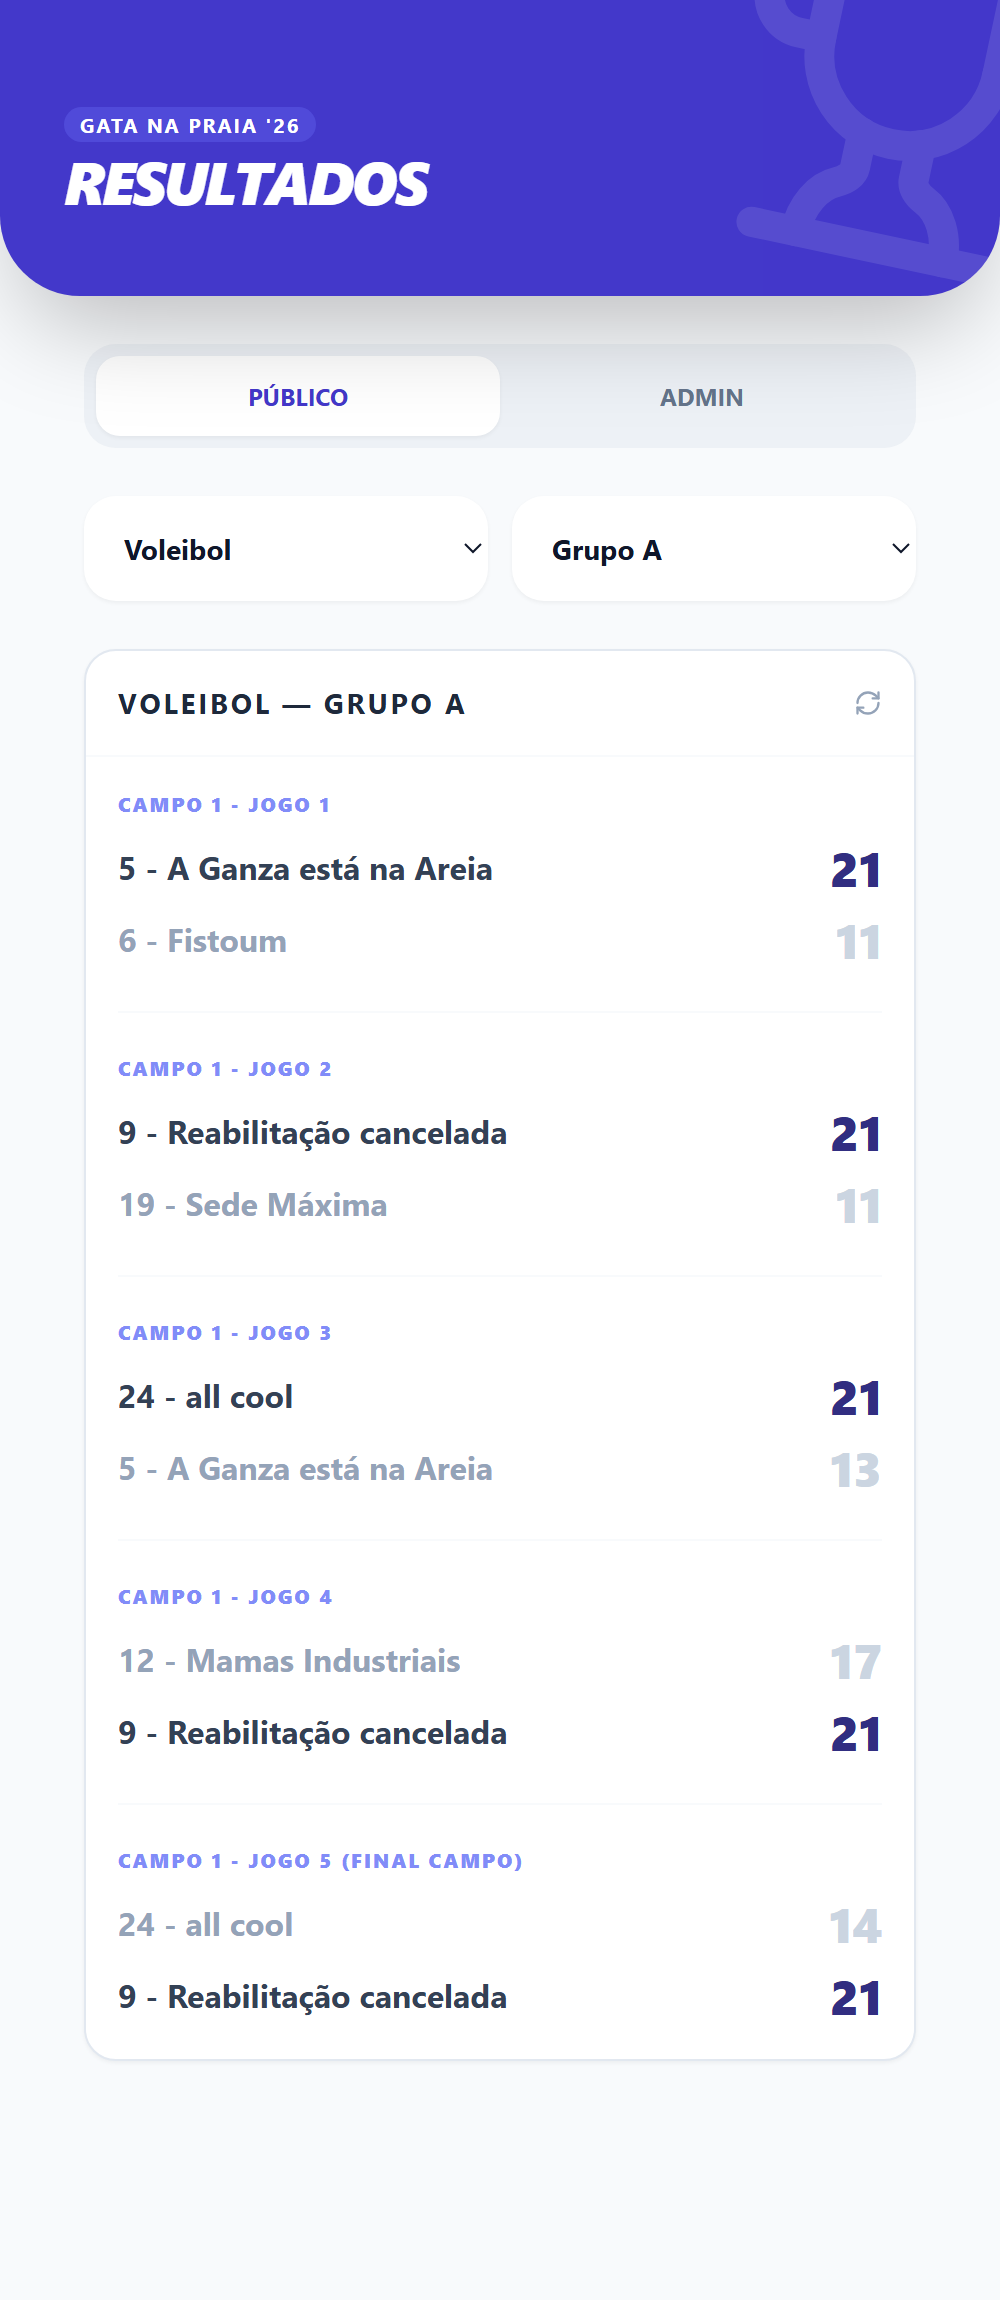
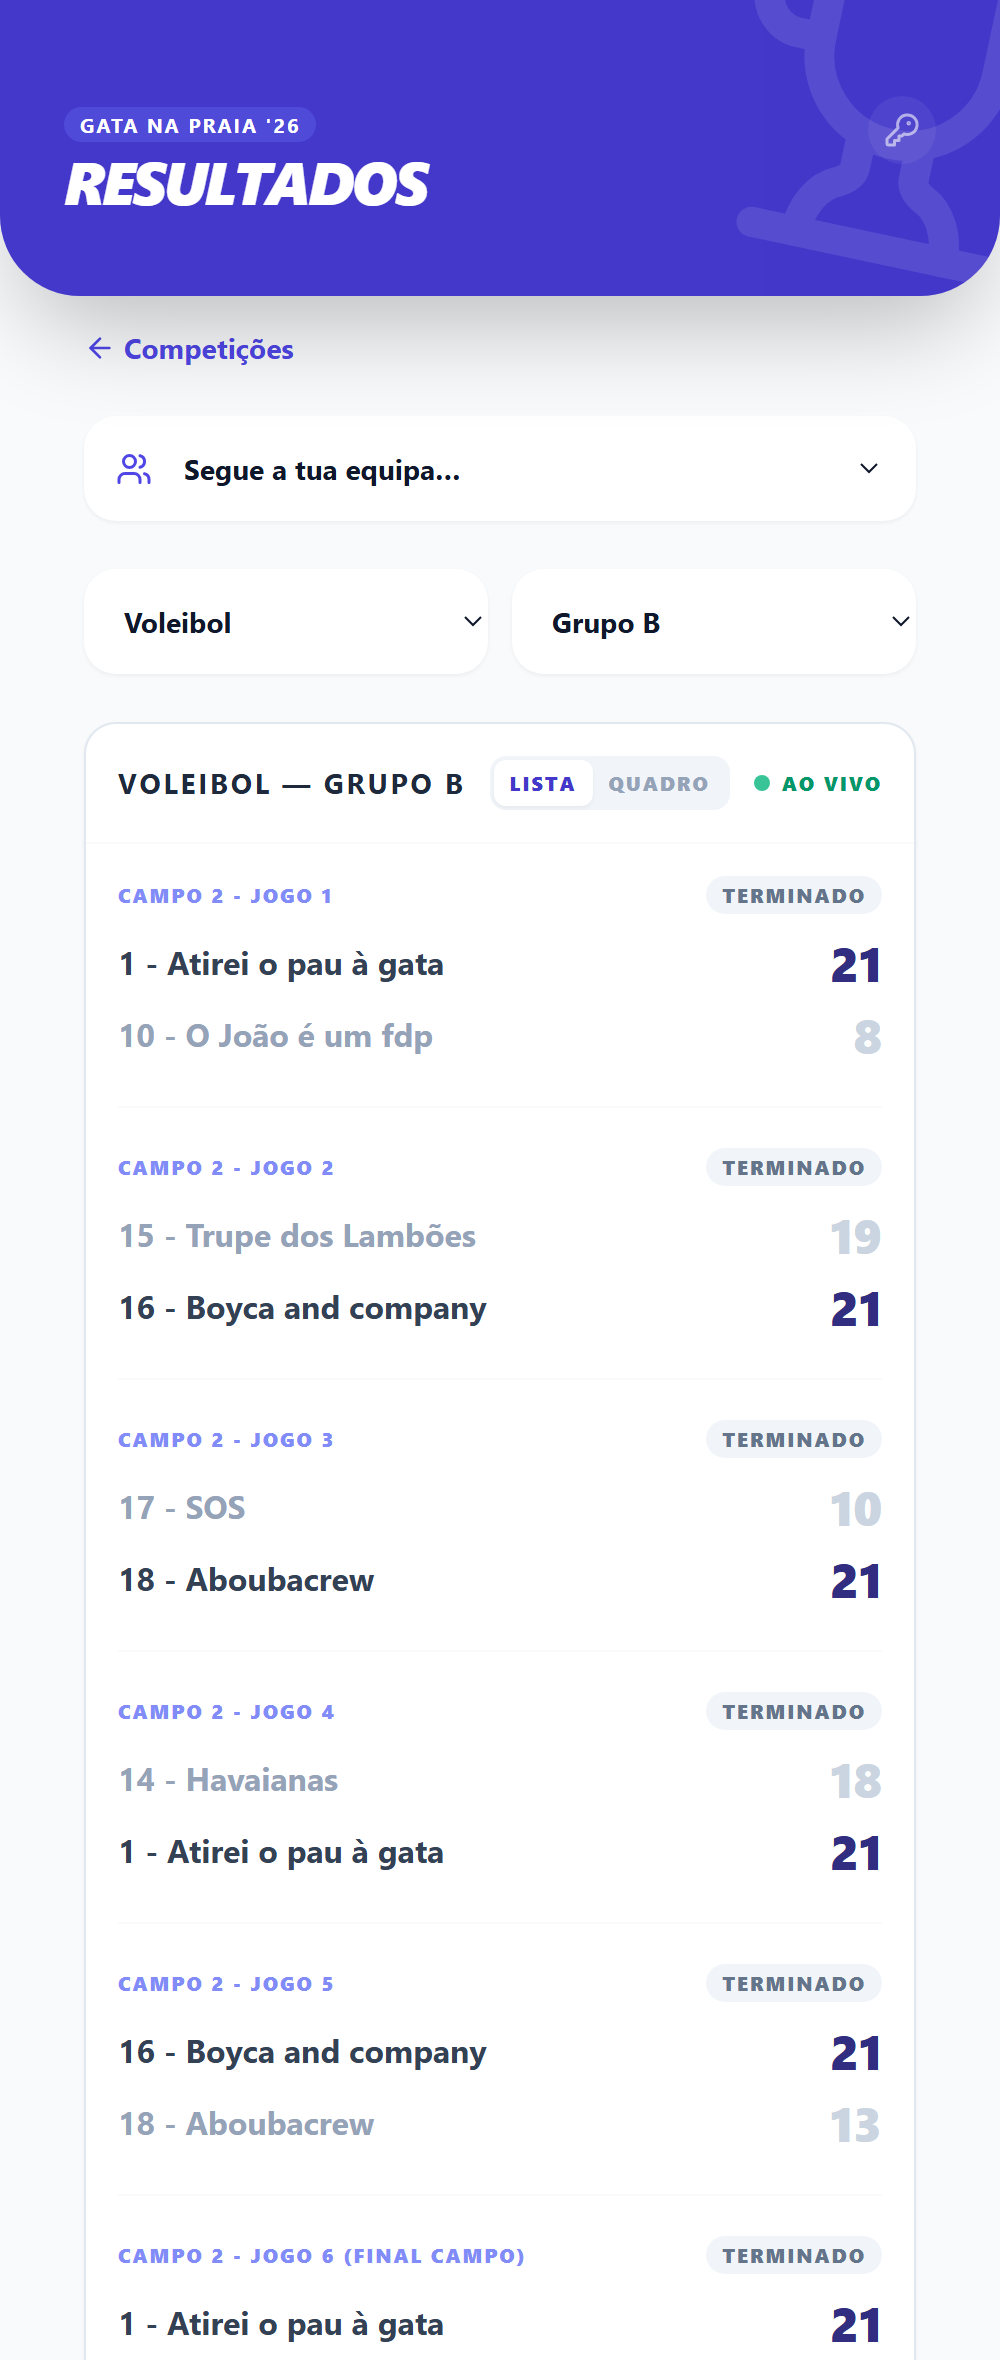
README final e captura atual
README revisto de ponta a ponta para o estado atual da plataforma: destaques, funcionalidades, instalação com schema.sql, formato dos dados e estrutura do projeto. Captura nova tirada ao site em produção.

diff --git a/README.md b/README.md
@@ -6,43 +6,33 @@
 
 Mobile-first platform for running sports competitions: pick a competition, follow fixtures and results live, and let organisers set up teams and brackets from their phones. It started as the app for the sports tournament at **Gata na Praia 2026**, an event organised by the University of Minho Students' Union (AAUMinho), where players and spectators followed every match while the organisers entered scores from the pitch.
 
-**In numbers:** 27 teams · 3 sports (volleyball, handball, football) · 81 matches · scores pushed live to every open phone.
+**In numbers (Gata na Praia 2026):** 27 teams · 3 sports (volleyball, handball, football) · 81 matches · scores pushed live to every open phone.
 
-<img src="screenshot.png" alt="Volleyball group A results on a phone" width="320" />
+<img src="screenshot.png" alt="Volleyball group B results on a phone" width="320" />
 
 ## Highlights
 
-- **Many competitions, one app.** The home page lists every competition; each one lives at its own address (`/c/<competition>`). Organisers create a new competition from the app (name, edition, sports, number of groups) and it opens straight into team setup.
+- **Many competitions, one app.** The home page lists every competition; each one lives at its own address (`/c/<competition>`). Organisers create a competition from the app (name, edition, sports, and either groups followed by a knockout stage or a straight knockout) and it opens straight into team setup.
 - **Live scores.** Results change on every open phone as soon as an organiser publishes them (Supabase Realtime), and the page catches up when a phone comes back from the background.
-- **Several organisers at once, without lost updates.** Each admin keeps a list of their own changes instead of a copy of the tournament. Publishing applies those changes on top of the latest version and only saves if nobody else saved in between (optimistic concurrency on a `version` column); otherwise it retries. Admins are told when they overwrote someone else's value or edited a match that was deleted meanwhile.
-- **Automatic bracket.** A match side can be a team or a reference such as "winner of the group A final" or "loser of semi-final 1". Teams move up as soon as a result is in, and draws can be settled with a tiebreak (penalties, golden point). The admin can only pick references that do not create a cycle.
-- **Reusable for other tournaments, set up from the app.** Organisers change the name and edition, add or remove sports and groups, and manage each group's teams (renaming a team updates every match). One tap generates a group's whole knockout for any number of teams, with byes for the top seeds, and the knockout stage between group winners for any number of groups, all wired with "winner of match X" / "loser of match Y". After generating, two teams can swap places (also across groups) in every match that has not started. Generating is blocked once a match in that group has started.
-- **Secure by default.** Row Level Security lets anyone read but only signed-in admins write. The app detects a write silently blocked by RLS instead of reporting success.
-- **Tested logic.** All tournament rules live in plain TypeScript (`lib/tournament/`, no React or Supabase) with 147 Vitest tests, plus component tests (Testing Library) for the bracket, its simulation, the tournament setup panel, the new competition form and the admin sign-in. CI runs lint, type checks, tests and a production build on every push.
+- **Several organisers at once, without lost updates.** Each admin keeps a list of their own changes instead of a copy of the competition. Publishing applies those changes on top of the latest version and only saves if nobody else saved in between (optimistic concurrency on a `version` column); otherwise it retries. Admins are told when they overwrote someone else's value or edited something that changed meanwhile.
+- **Brackets that build themselves.** A match side can be a team or a reference such as "winner of the group A final" or "loser of semi-final 1", so teams move up as soon as a result is in. One tap generates a group's knockout or the knockout stage for any number of teams or groups, with byes for the top seeds and a 3rd/4th place match. Teams can still swap places afterwards in matches that have not started. Draws are settled with a tiebreak, and only a finished match sends anyone through.
+- **Secure by default.** Visitors only see the public pages; organisers sign in with a discreet button in the header. Row Level Security lets anyone read but only signed-in admins write, and the app detects a write silently blocked by RLS instead of reporting success.
+- **Tested logic.** All tournament rules live in plain TypeScript (`lib/tournament/`, no React or Supabase) with 143 Vitest tests, plus 22 component tests (Testing Library) for the bracket and its simulation, the setup panel, the new competition form and the admin sign-in. CI runs lint, type checks, tests and a production build on every push.
 
 ## Features
 
-**Public view**
-- Home page with every competition; old links to the 2026 tournament still work
-- Competitions with groups and then a knockout stage, or a straight knockout with no groups
-- Only the public pages are visible; a discreet button in the corner of the header lets organisers sign in, and only then do the editing tools appear
-- Follow your team: a page per team (`/c/<competition>/equipa/<team>`) with its record, the match it is playing now or plays next, what comes next if it wins or loses, and its matches grouped by sport with a record per sport; the team you follow is remembered on your phone
-- Every match shows whether it is upcoming, live or finished, plus its time
+**Public**
+- Home page with every competition
+- Results by sport and group or knockout stage: pitch, time, teams, score and status (upcoming, live, finished); winners highlighted
 - **Bracket view** of each group and of the knockout stage, drawn as a tree from the first matches to the final. Links come from the match references or, for hand-typed team names, are worked out from who won each earlier match
 - **Simulate**: tap the team you think wins each unfinished match and see who would go through; nothing is saved
-- Shareable links to a sport, group and view, e.g. `?modalidade=Voleibol&grupo=Finais&vista=quadro`
-- Pick a sport and a group or the knockout stage
-- See every match with its pitch, teams and score; winners highlighted, unplayed matches shown as "–"
-- Knockout stage with semi-finals, 3rd/4th place match and final
+- **Follow your team**: a page per team with its record, the match it is playing now or plays next, what comes next if it wins or loses, and its matches grouped by sport; the team you follow is remembered on your phone
+- Shareable links to a sport, group and view, e.g. `/c/<competition>?modalidade=Voleibol&grupo=Finais&vista=quadro`; old links to the 2026 tournament still work
 
-**Admin view**
-- Email and password sign-in with Supabase Auth
-- Create a competition from the home page
-- **Tournament and teams:** swap two teams after generating; name, edition and page title; sports; groups; teams per group in seed order; generate a group's matches or the knockout stage, with a bracket preview before publishing
-- Add, edit and delete matches in any group or in the knockout stage
-- Choose each side from the teams, a group winner, or the winner or loser of another match
-- Tiebreak winner for drawn matches
-- Match time and status (upcoming, live, finished); only a finished match sends its winner to the next round, so a partial score never advances anyone
+**Organisers** (after signing in with the key button in the header)
+- Create a competition: groups and then a knockout stage, or a straight knockout
+- **Tournament and teams:** name, edition and page title; sports; groups; teams in seed order (rename updates every match); generate a group's matches or the knockout stage with a bracket preview; swap two teams
+- **Matches:** add, edit and delete; choose each side from the teams, a group winner, or the winner or loser of another match; time, status and tiebreak winner
 - Publish all changes in one save, or discard them; warning before leaving with unpublished changes
 
 ## Tech stack
@@ -53,7 +43,7 @@ Mobile-first platform for running sports competitions: pick a competition, follo
 | Backend | Supabase: PostgreSQL, Auth, Realtime, Row Level Security |
 | Language | TypeScript (tournament logic), JavaScript (UI) |
 | Styling | Tailwind CSS 3, Lucide icons |
-| Quality | Vitest, ESLint, GitHub Actions; Vercel previews for every pull request |
+| Quality | Vitest, Testing Library, ESLint, GitHub Actions; Vercel previews for every pull request |
 
 ## How it works
 
@@ -63,14 +53,14 @@ Phone (public)  ◄── Realtime ──┐
 Admin ── edits ──► publishEdits ──► load latest ─► apply edits ─► save if version unchanged
                                │                                     │
                                └──────────── retry on conflict ◄─────┘
-                                             Supabase: app_state (payload jsonb, version)
+                                     Supabase: app_state (id, payload jsonb, version)
 ```
 
 Each competition is one row of the `app_state` table (its `id` is the address, `/c/<id>`) holding a single JSON document, so the structure of groups and stages can change without database migrations. Every save bumps `version` through a trigger, which is what makes concurrent publishing safe.
 
 ## Getting started
 
-Requirements: Node.js 20 or newer (22.18+ for `npm run novo-torneio`) and a free [Supabase](https://supabase.com) project.
+Requirements: Node.js 20 or newer and a free [Supabase](https://supabase.com) project.
 
 **1. Install**
 
@@ -87,47 +77,38 @@ NEXT_PUBLIC_SUPABASE_URL=https://<project>.supabase.co
 NEXT_PUBLIC_SUPABASE_ANON_KEY=<anon-key>
 ```
 
-**3. Create the table** in the Supabase SQL editor:
+**3. Create the database.** Run [`supabase/schema.sql`](supabase/schema.sql) in the Supabase SQL editor. It creates the `app_state` table, the `version` column used for concurrent publishing, the Row Level Security policies (everyone reads, only signed-in admins update and create competitions, nobody deletes from the app) and turns on Realtime. It is safe to run again.
 
-```sql
-create table app_state (
-  id text primary key,
-  payload jsonb not null,
-  updated_at timestamptz default now()
-);
-```
+**4. Create the admin users** under Authentication → Users in Supabase.
 
-**4. Lock it down and turn on live updates.** The anon key ships to every browser, so Row Level Security is what stops visitors from editing results. Run, in order:
-
-- [`supabase/policies.sql`](supabase/policies.sql): everyone can read, only signed-in admins can update, nobody can insert or delete rows from the app.
-- [`supabase/realtime-e-versao.sql`](supabase/realtime-e-versao.sql): the `version` column used for concurrent publishing, and Realtime for the table. The app still works without it, with no live updates and last save wins.
-- [`supabase/competicoes.sql`](supabase/competicoes.sql): lets signed-in admins create competitions from the app. Deleting a competition is only possible in the SQL editor.
-
-**5. Create the admin users** under Authentication → Users in Supabase.
-
-**6. Create competitions** from the home page: sign in with the key button in the top-right corner, then "Nova competição" (groups and then a knockout stage, or a straight knockout). [`tournament.config.json`](tournament.config.json) sets the platform name and the defaults for new competitions; its `id` is the competition that old links (without `/c/<id>`) open. Optionally, `npm run novo-torneio` writes `supabase/novo-torneio.sql` to create that competition from the SQL editor instead.
-
-**7. Run**
+**5. Run**
 
 ```bash
 npm run dev
 ```
 
-The app runs at `http://localhost:3000`.
+The app runs at `http://localhost:3000`. Sign in with the key button in the top-right corner and create the first competition with "Nova competição".
+
+[`tournament.config.json`](tournament.config.json) holds the platform name, the sports and groups suggested for new competitions, and the competition that old links without `/c/<id>` open.
 
 ## Data format
 
 ```json
 {
-  "modalities": ["Voleibol", "Andebol", "Futebol"],
+  "settings": { "name": "Gata na Praia", "edition": "'26", "title": "Gata na Praia 2026" },
+  "modalities": ["Voleibol", "Futebol"],
   "groups": {
-    "Voleibol": { "A": { "matches": [] }, "B": { "matches": [] }, "C": { "matches": [] }, "D": { "matches": [] } }
+    "Voleibol": { "A": { "teams": ["…"], "matches": [] }, "B": { "teams": [], "matches": [] } },
+    "Futebol": {}
   },
-  "finals": { "Voleibol": [] }
+  "finals": { "Voleibol": [], "Futebol": [] },
+  "finalsTeams": { "Futebol": ["…"] }
 }
 ```
 
-Each match is `{ "id", "stage", "home", "away", "homeScore", "awayScore" }`, plus an optional `tiebreakWinner` for drawn matches. Scores are strings and stay `""` until the match is played.
+A sport with no groups is a straight knockout: its teams are in `finalsTeams`.
+
+Each match is `{ "id", "stage", "home", "away", "homeScore", "awayScore" }`, plus optional `time` (`"HH:MM"`), `status` (`"upcoming"`, `"live"` or `"finished"`; empty means finished once it has a score) and `tiebreakWinner` for drawn matches. Scores are strings and stay `""` until the match is played.
 
 `home` and `away` are usually team names, but they can also point to another match:
 
@@ -142,7 +123,7 @@ Each match is `{ "id", "stage", "home", "away", "homeScore", "awayScore" }`, plu
 ```bash
 npm run lint        # ESLint (next/core-web-vitals)
 npm run typecheck   # TypeScript
-npm test            # Vitest: tournament logic
+npm test            # Vitest: tournament logic and components
 npm run build
 ```
 
@@ -152,32 +133,31 @@ npm run build
 app/
 ├── layout.jsx                  # Root layout and metadata
 ├── page.jsx                    # Home: list and create competitions
-├── c/[id]/page.jsx             # A competition: public view, "my team" shortcut and admin panel
+├── c/[id]/page.jsx             # A competition: public view, "my team" shortcut and admin area
 ├── c/[id]/equipa/[slug]/       # Team page
 ├── equipa/[slug]/page.jsx      # Old team links, redirected to the 2026 competition
-├── NewCompetitionForm.jsx      # New competition form (+ test)
-├── AdminLogin.jsx              # Admin sign-in and the discreet header button (+ test)
+├── TournamentSetup.jsx         # Admin: tournament, sports, groups, teams, generate brackets, swap teams
+├── Bracket.jsx                 # Bracket view and simulation
+├── NewCompetitionForm.jsx      # New competition form
+├── AdminLogin.jsx              # Admin sign-in and the discreet header button
 ├── ui.jsx                      # Shared components (header, match row, status badge)
-├── Bracket.jsx                 # Bracket view and simulation (+ Bracket.test.jsx)
-├── TournamentSetup.jsx         # Admin: tournament, sports, groups, teams, generate brackets (+ test)
+├── *.test.jsx                  # Component tests
 └── globals.css                 # Tailwind entry point
 lib/
 ├── appState.ts                 # Supabase: competitions, load, versioned save, live subscription
 ├── useTournament.js            # React hooks: live competition data, admin session; followed team
-└── tournament/                 # Tournament rules in TypeScript, with tests
-    ├── resolve.ts              #   winners, losers and group winners
-    ├── edits.ts / publish.ts   #   admin edits and conflict-safe publishing
+└── tournament/                 # Tournament rules in TypeScript, each with its tests
+    ├── resolve.ts              #   winners, losers, group winners and match status
+    ├── edits.ts, publish.ts    #   admin edits and conflict-safe publishing
     ├── slots.ts                #   what each match side can point to, cycle checks
     ├── team.ts                 #   a team's matches, next match and what comes next
     ├── bracket.ts              #   bracket tree of a group or the knockout stage; simulation
-    ├── generate.ts             #   generated knockouts for groups and the knockout stage
+    ├── generate.ts             #   generated knockouts for groups, knockout stage and straight knockouts
     ├── swap.ts                 #   swap two teams in matches that have not started
     ├── competition.ts          #   new competitions: address, validation, initial state
-    └── config.ts               #   tournament config, settings and new-tournament template
-scripts/novo-torneio.mjs        # Generates the SQL for the default competition
-supabase/                       # RLS policies, version column, Realtime, creating competitions
-tournament.config.json          # Platform name, default competition and defaults for new ones
-prototypes/                     # Earlier versions, not served by Next.js
+    └── config.ts               #   platform config and competition texts
+supabase/schema.sql             # Table, version column, Row Level Security and Realtime
+tournament.config.json          # Platform name, defaults for new competitions, default competition
 ```
 
 ## Author
